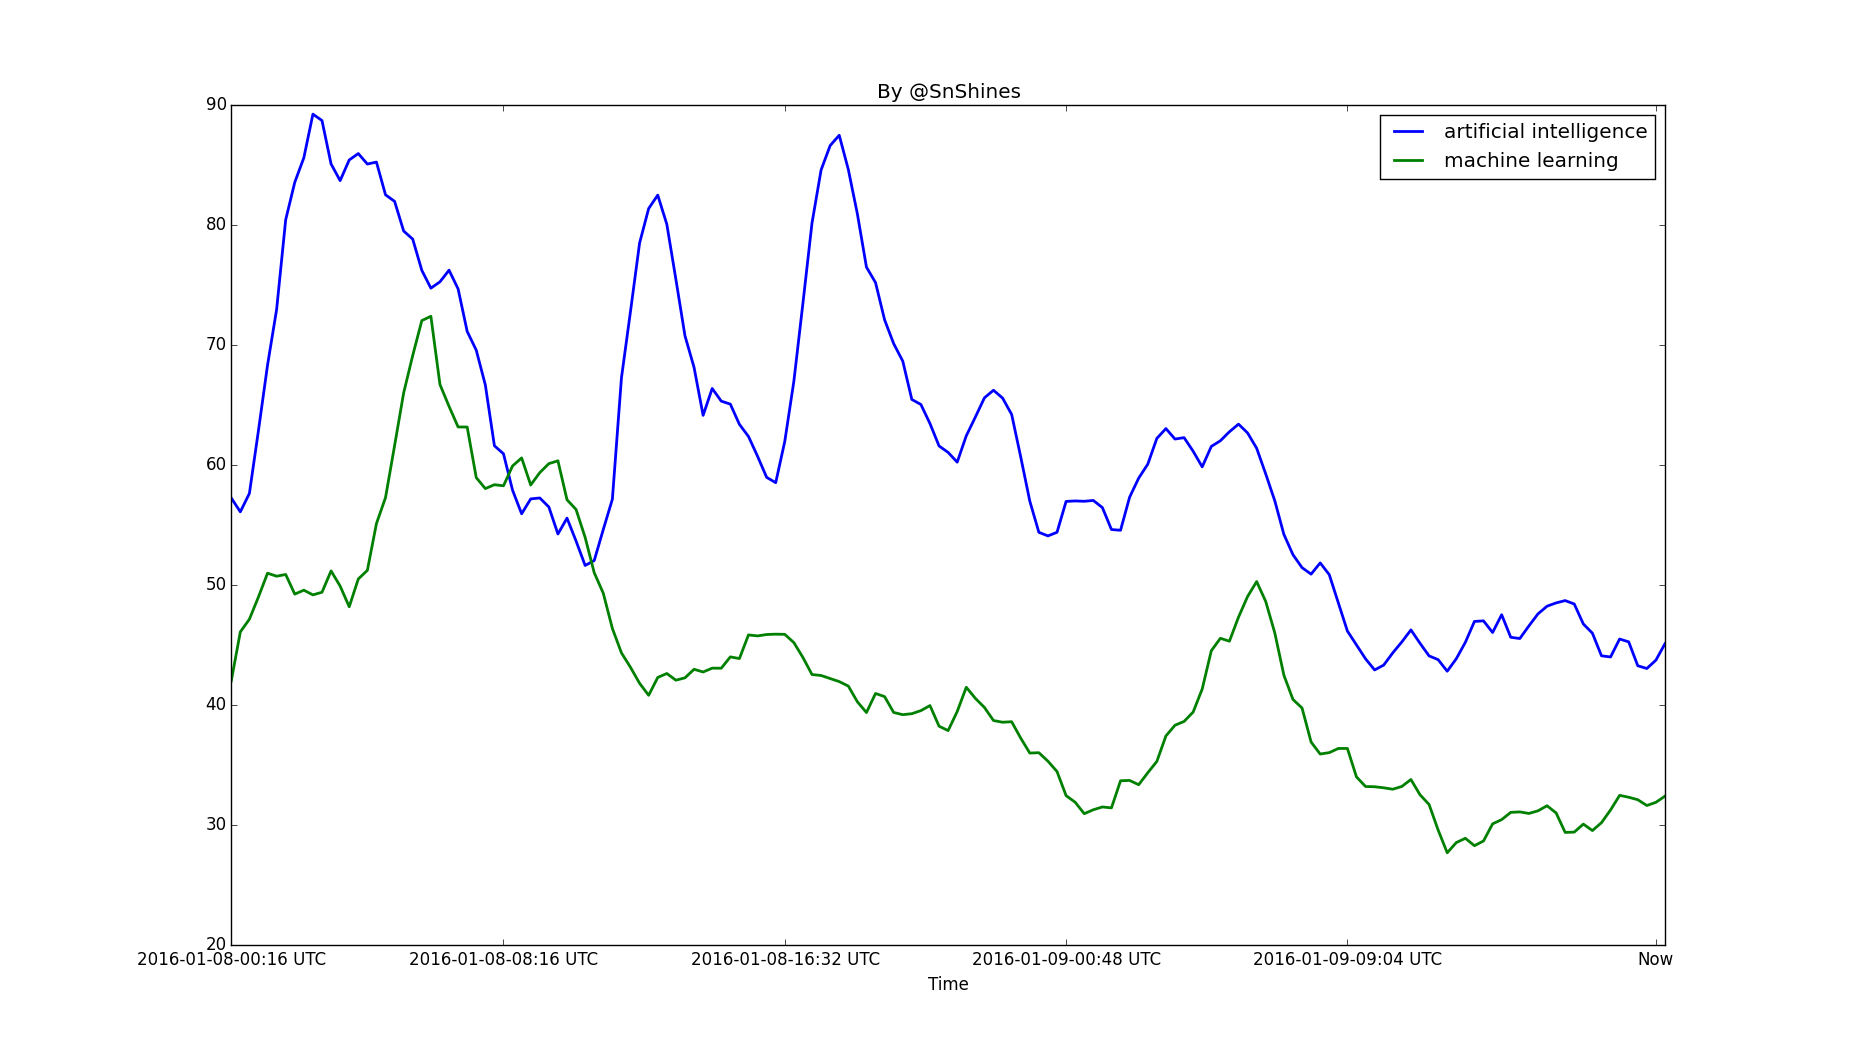
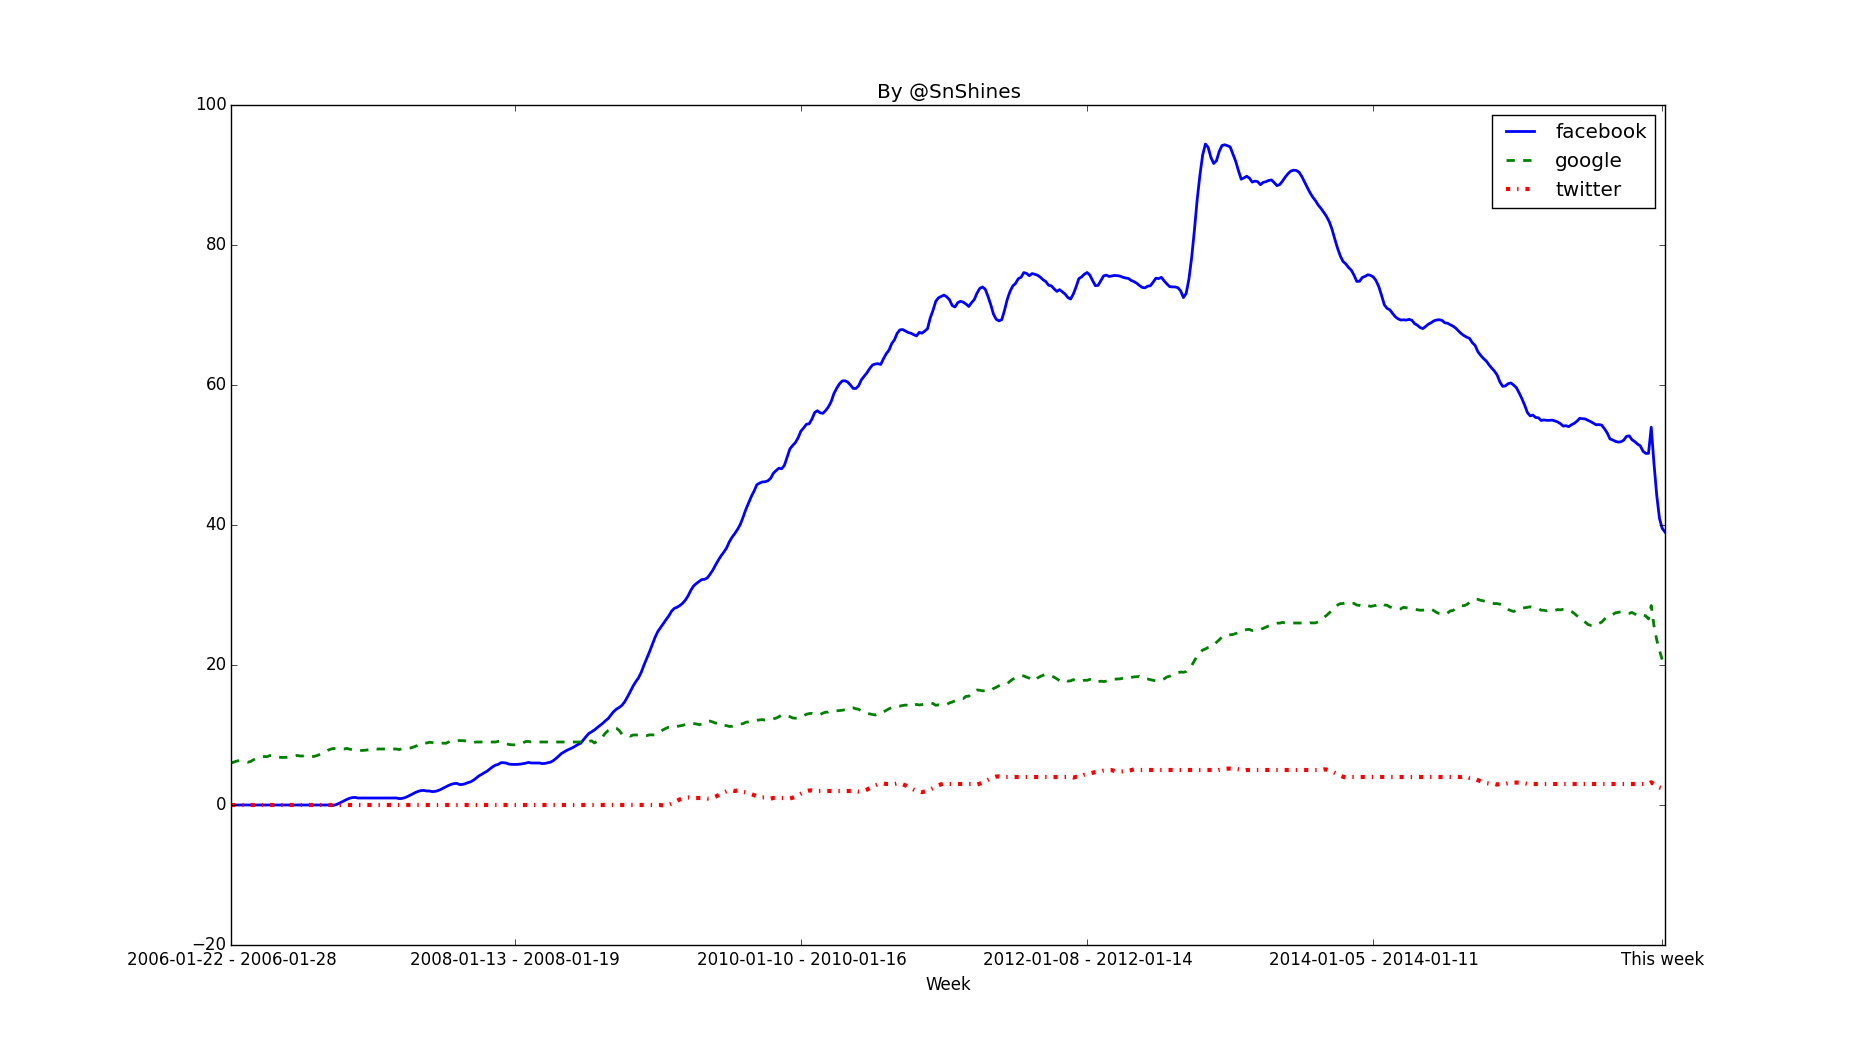
modified structure of confing file

diff --git a/example_config.py b/example_config.py
@@ -1,0 +1,6 @@
+google= {"User_Name": "your mail", "Password": "your password"}
+
+twitter= {"API_Key": "your key",
+            "API_Secret": "your secret key",
+            "Access_Token": "4729137445-your token",
+            "Access_Token_Secret": "your secter token"}
